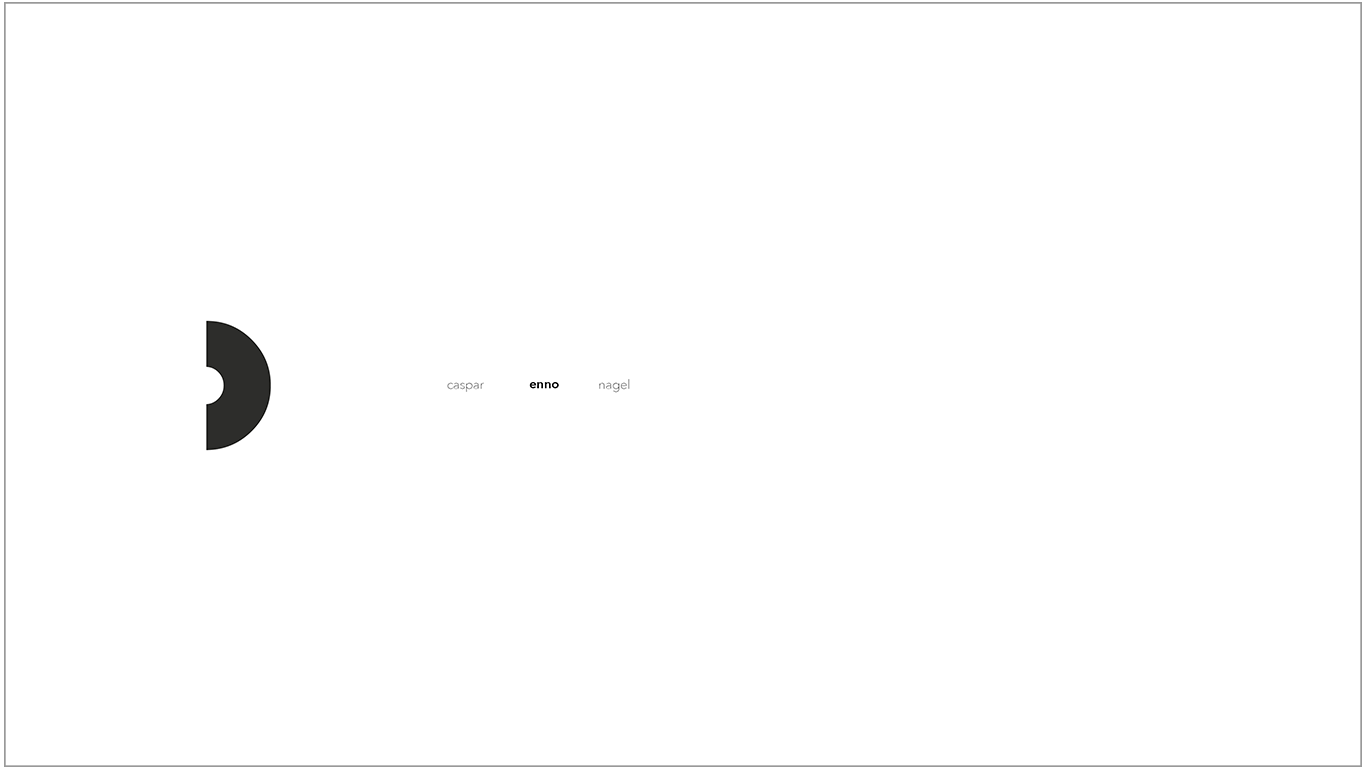
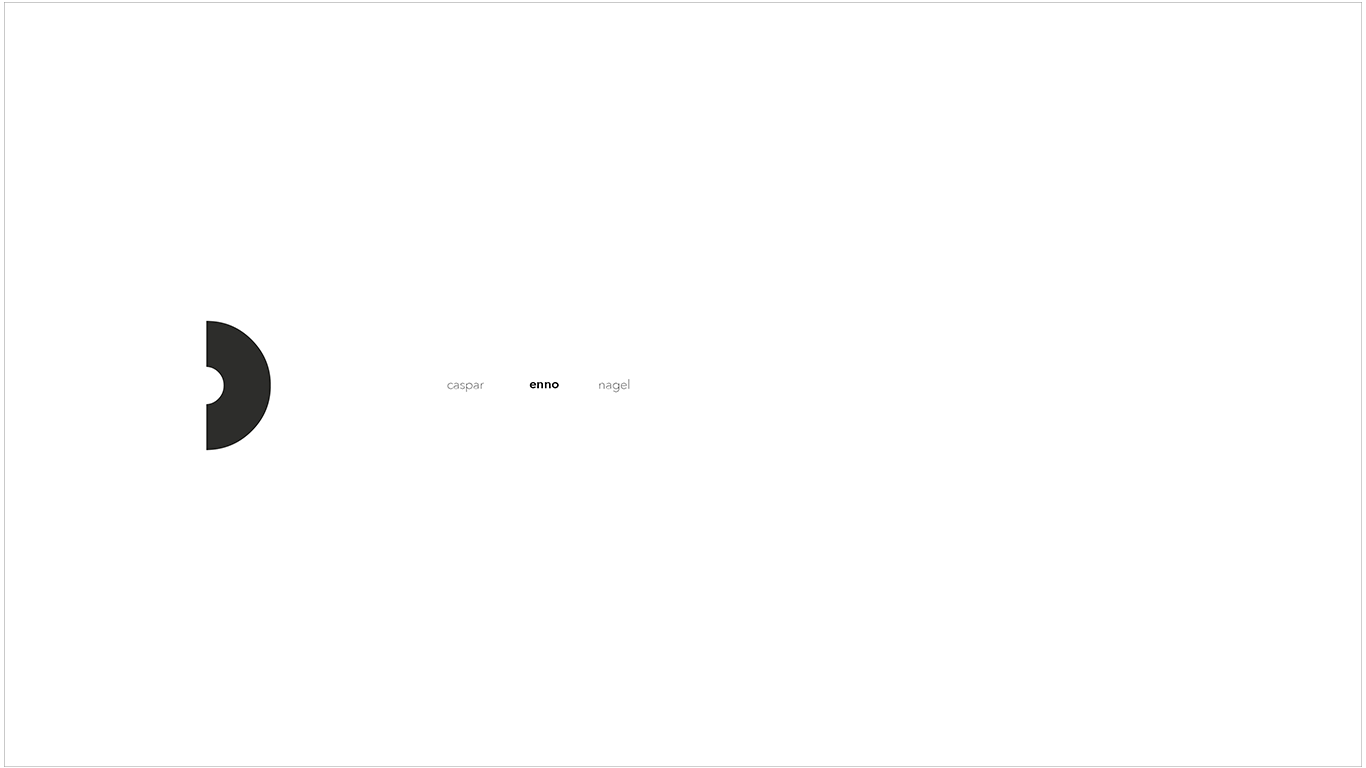
update

diff --git a/src/components/Coverpage.js b/src/components/Coverpage.js
@@ -26,7 +26,8 @@ constructor(){
   this.state = {
     visibility:"",
     pageFade: '',
-    symbol:''
+    symbol:'',
+    clickToEnter: 'hidden'
 
   }
 }
@@ -108,8 +109,21 @@ componentWillMount(){
           }
 }
 
+onHoverLogo(){
+  this.setState({clickToEnter: "visible"})
+}
+
+hoverLogoOut(){
+    this.setState({clickToEnter: "hidden"})
+}
+
+
+
   render(){
 
+    const clickToEnterState = {
+      visibility: this.state.clickToEnter
+    }
 
     // const settings = {
     //   accessibility: true,
@@ -139,8 +153,8 @@ componentWillMount(){
     return (
           <div>
             <div className={"coverpageWrapper animated fadeIn"  + ' ' + this.state.pageFade}>
-              <img alt="reload" onClick={this.onClickCoverpage.bind(this)} className="logoAnimation" src={logoAnimation}></img>
-              <h1 className="click" >click to enter</h1>
+              <img alt="reload" onMouseOver={this.onHoverLogo.bind(this)} onMouseOut={this.hoverLogoOut.bind(this)} onClick={this.onClickCoverpage.bind(this)} className="logoAnimation" src={logoAnimation}></img>
+              <h1 style={clickToEnterState} className="click">click to enter</h1>
           </div>
           </div>
 

diff --git a/src/components/About.js b/src/components/About.js
@@ -189,7 +189,9 @@ navStatus(status) {
 console.log("logooooooo");
     // console.log(status);
     console.log("slide down now");
-    this.setState({aboutFadeOutAll: 'animated fadeOut'})
+    this.setState({aboutFadeOut: 'animated fadeOut'})
+
+    // this.setState({aboutFadeOutAll: 'animated fadeOut'})
   }
 
   else if(status === 'work'){

diff --git a/src/components/Project.js b/src/components/Project.js
@@ -155,7 +155,10 @@ slideRender(){
     // dots: true,
     slidesToShow: 1,
      slidesToScroll: 1,
-      fade: true
+      // fade: true,
+      lazyLoad:true,
+      swipeToSlide: false,
+      touchMove:false
   }
   console.log("this is slide render");
   if(this.state.title === "enno") {

diff --git a/src/components/Work.js b/src/components/Work.js
@@ -411,7 +411,7 @@ navStatus(status) {
 console.log("logooooooo");
     // console.log(status);
     console.log("slide down now");
-    this.setState({workFadeOutAll: 'animated fadeOut'})
+    // this.setState({workFadeOutAll: 'animated fadeOut'})
   }
 
   else if(status === 'about'){

diff --git a/src/styling/Coverpage.css b/src/styling/Coverpage.css
@@ -59,9 +59,9 @@ position: absolute;
 }
 .click {
   font-family: "Avenir Next";
-  font-weight: 300;
+  font-weight: 200;
   line-height: 2;
-        font-size: 20px;
+        font-size: 17px;
 }
 
 .logoAnimation {
